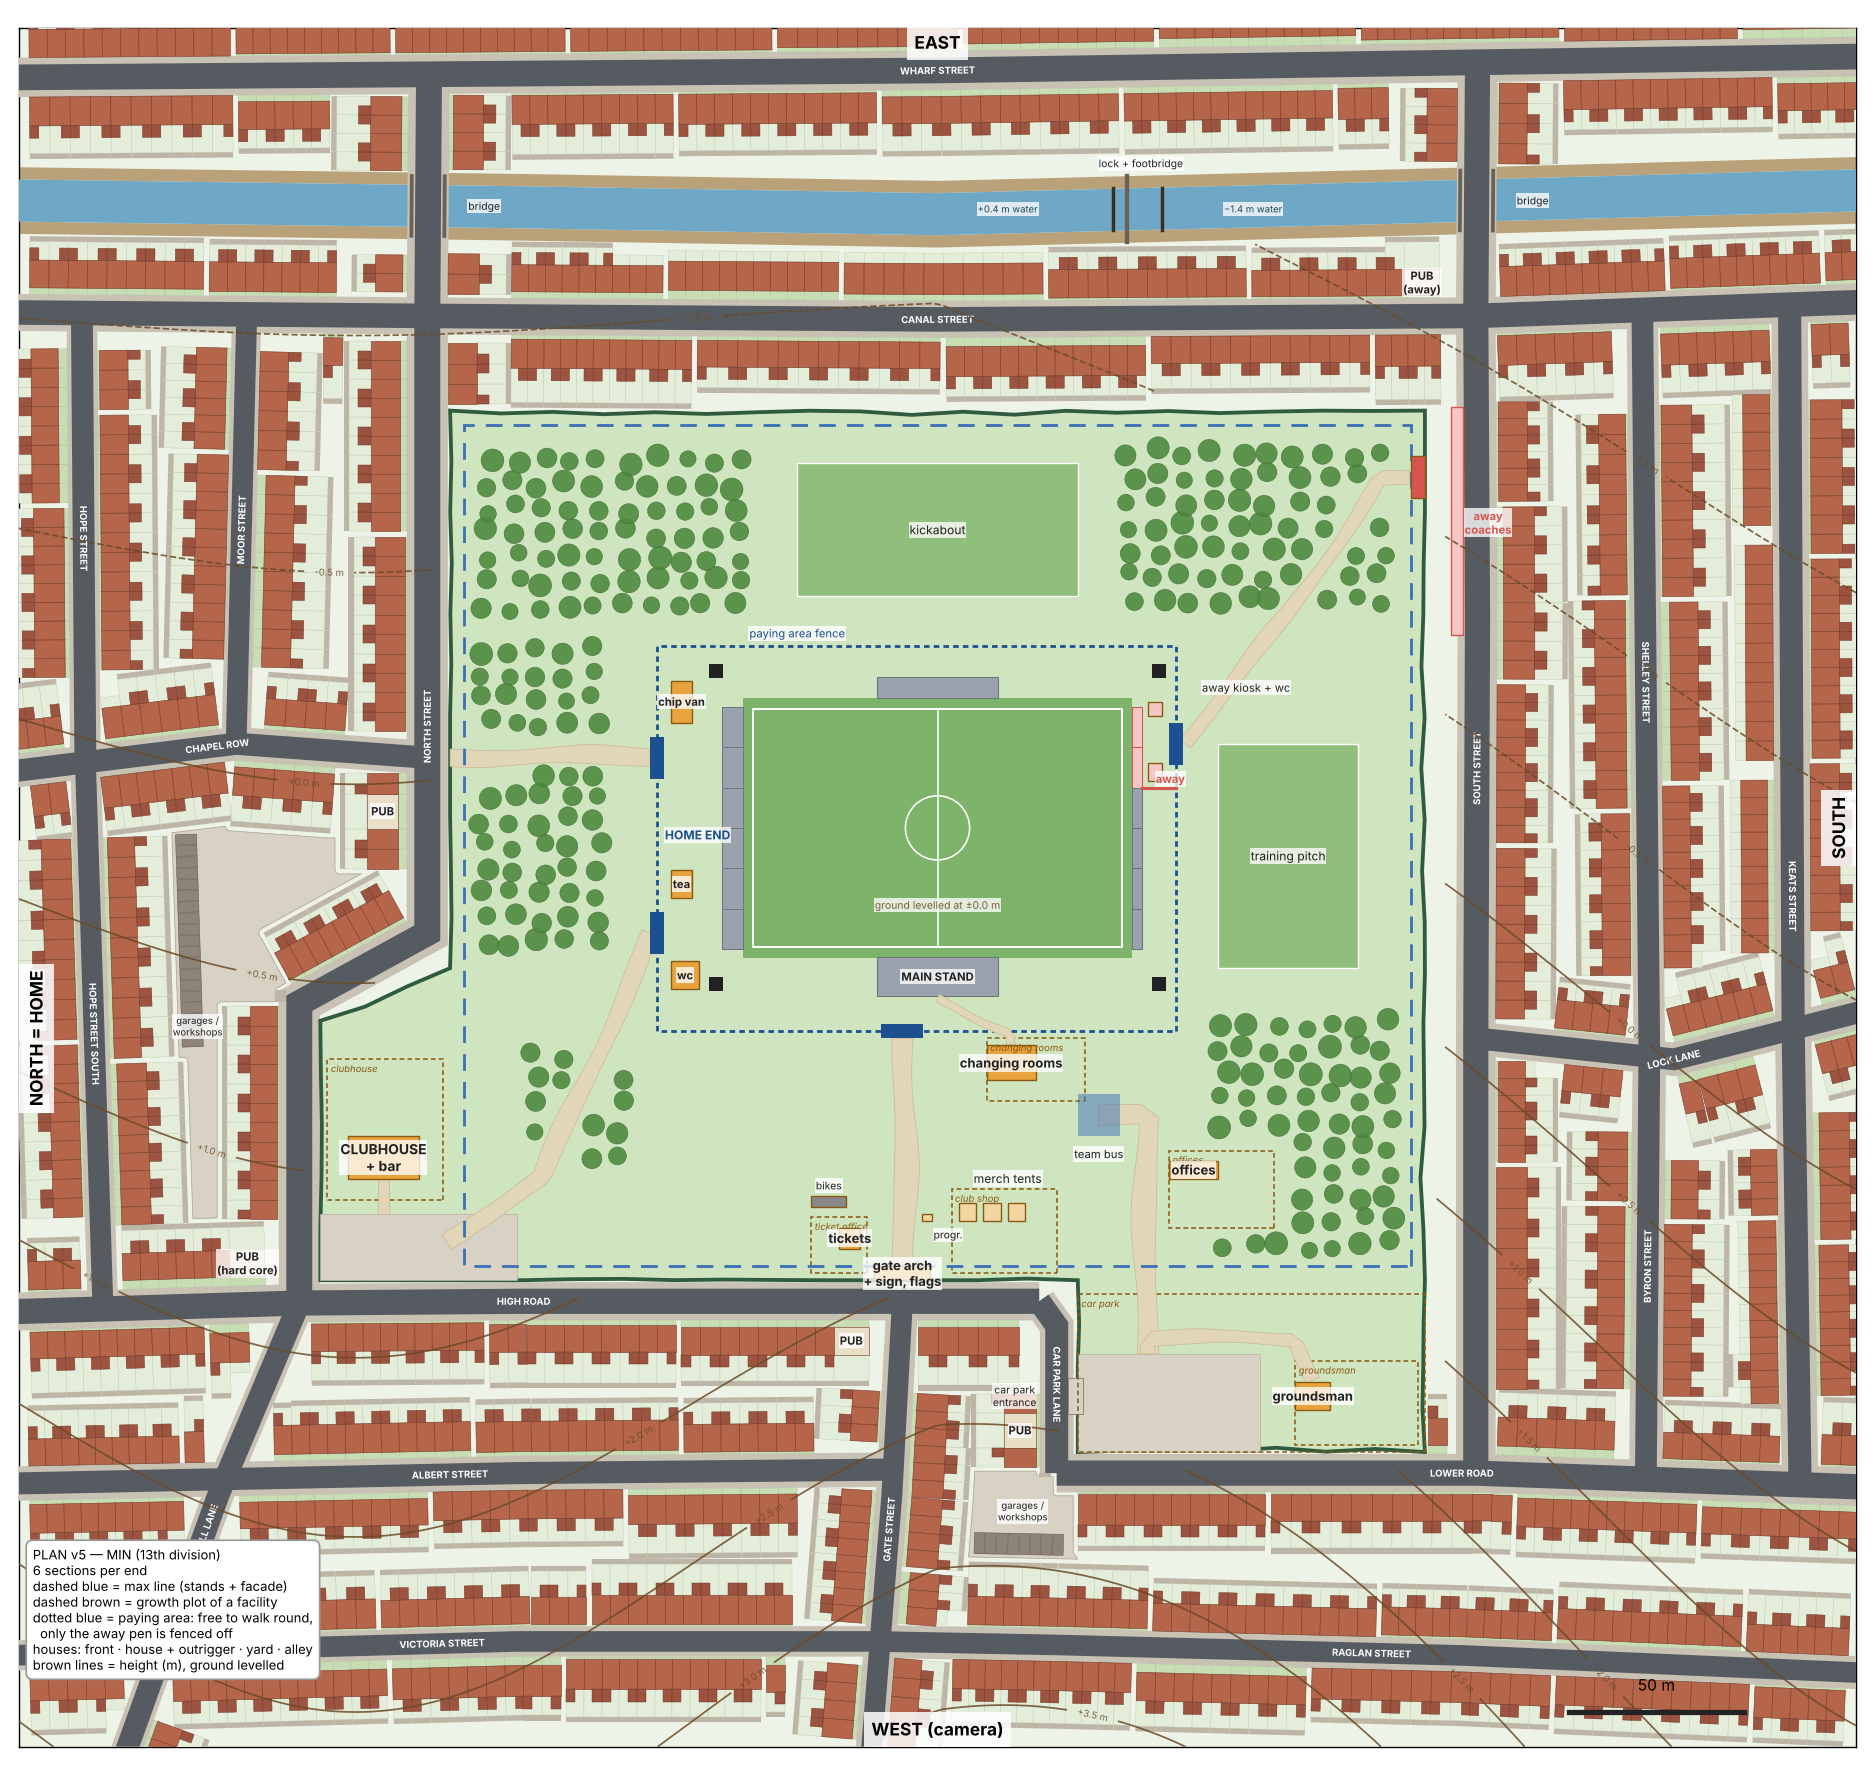
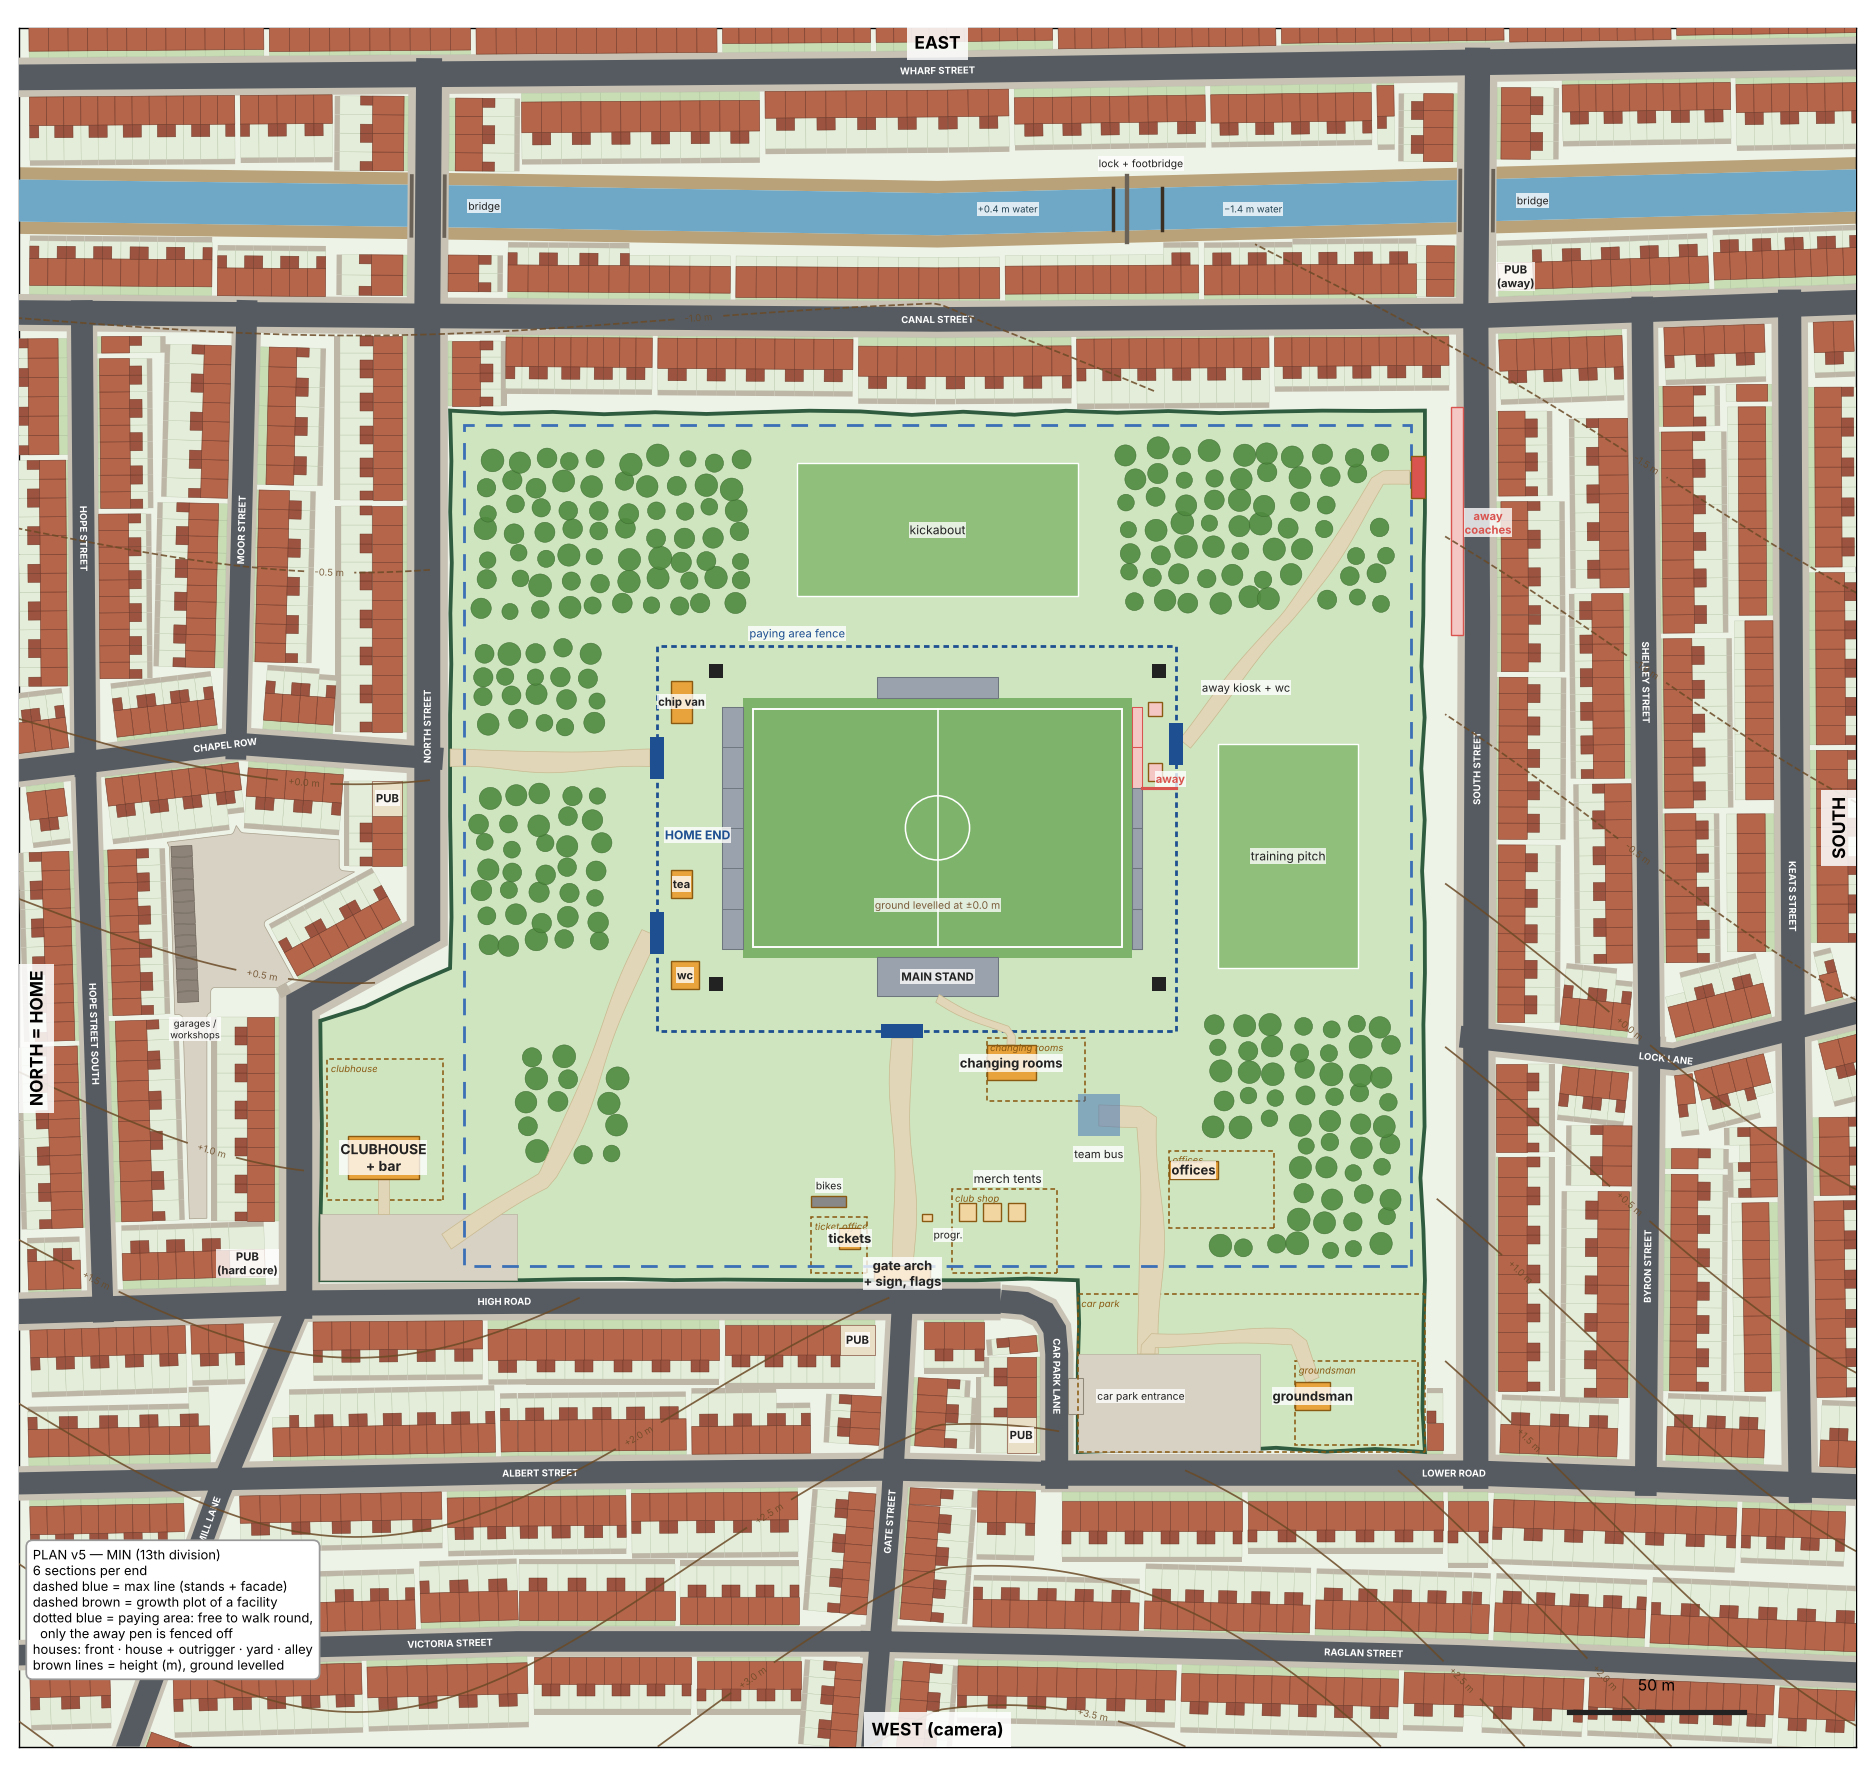
World plan v5: smooth Car Park Lane join, Albert Street on to Lower Road, run-on T-junctions, full-width house collision
Claude-Session: https://claude.ai/code/session_014ycydqV6UcPmXsxcMbevVi

diff --git a/tools/plan/world_plan_v5.py b/tools/plan/world_plan_v5.py
@@ -78,11 +78,11 @@ assert PLOT.buffer(0.01).contains(MAXL), "max line must fit inside the plot"
 
 # ---------------------------------------------------------------- streets (centrelines)
 STREETS = {
-    "High Road": [(-265, -138), (-182, -135.5), (-120, -135), (-10, -135), (29, -135)],
-    "Car Park Lane": [(29, -135), (34, -142), (34, -184)],
+    "High Road": [(-265, -138), (-182, -135.5), (-120, -135), (-10, -135), (18, -135)],
+    "Car Park Lane": [(18, -135), (25, -135.6), (30.5, -138.2), (33.4, -143), (34, -150), (34, -184)],
     "Lower Road": [(34, -184), (153.5, -184), (265, -188)],
     "Gate Street": [(-10, -135), (-13, -190), (-19, -265)],
-    "Albert Street": [(-265, -187), (-120, -184), (-13, -183)],
+    "Albert Street": [(-265, -187), (-120, -184), (-13, -183), (34, -184)],
     "Victoria Street": [(-265, -236), (-120, -232), (-17.5, -232)],
     "Raglan Street": [(-17.5, -232), (34, -233), (150, -236), (265, -241)],
     "Mill Lane": [(-182, -135.5), (-205, -190), (-232, -265)],
@@ -99,7 +99,32 @@ STREETS = {
     "Keats Street": [(246, -188), (244, -57), (243, 149)],
     "Wharf Street": [(-265, 214), (0, 216), (265, 220)],
 }
-roads = {k: LineString(v) for k, v in STREETS.items()}
+def _run_on(streets, d=4.5):
+    lines = {k: LineString(v) for k, v in streets.items()}
+    out = {}
+    for k, pts in streets.items():
+        pts = list(pts)
+        for end in (0, -1):
+            p = Point(pts[end])
+            if any(o.distance(p) < 1.0 for kk, o in lines.items() if kk != k):
+                q = pts[1] if end == 0 else pts[-2]
+                dx, dy = pts[end][0] - q[0], pts[end][1] - q[1]
+                L = math.hypot(dx, dy) or 1
+                # only straight-on T-ends: a street that continues another one (same direction) is joined smoothly instead
+                ext = (pts[end][0] + dx / L * d, pts[end][1] + dy / L * d)
+                if end == 0:
+                    pts.insert(0, ext)
+                else:
+                    pts.append(ext)
+        out[k] = pts
+    return out
+
+
+SMOOTH_JOINS = {("High Road", "Car Park Lane")}
+_ext = _run_on({k: v for k, v in STREETS.items() if k not in ("Car Park Lane",)})
+_ext["Car Park Lane"] = STREETS["Car Park Lane"][:-1] + [(34, -184), (34, -188.5)]
+_ext["High Road"] = [p for p in _ext["High Road"] if p[0] <= 18.01]       # High Road flows into Car Park Lane: no run-on there
+roads = {k: LineString(_ext[k]) for k in STREETS}
 # natural: every street its own width (main roads wider, back streets narrower), pavements vary too
 MAIN = {"High Road", "Canal Street", "South Street", "North Street", "Lower Road", "Wharf Street"}
 _rw = random.Random(11)
@@ -186,7 +211,7 @@ for name, line in roads.items():
                     width, pub = 10.0, tag
                     break
             for depth in (FG + HD + yd_run + AL, FG + HD + 5.0 + AL, FG + HD + 3.0):
-                cand = frame_poly(o, t, n, 0.2, width - 0.2, 0.25, depth)
+                cand = frame_poly(o, t, n, 0.0, width, 0.25, depth)
                 if cand.intersects(blocked) or occ.hits(cand.buffer(-0.35)) or not VIEW.buffer(30).contains(cand):
                     continue
                 break
@@ -681,7 +706,7 @@ def draw(stage, G):
     draw_poly(ax, COACH_BAY, "#F4C7C5", ec=C["away"], lw=0.8, z=8)
     for dv in G["drives"]:
         draw_poly(ax, dv, C["hard"], ec="#8f8778", lw=0.6, z=10)
-    label(ax, 22, -162, "car park\nentrance", fs=6, w="normal")
+    label(ax, 58, -162, "car park entrance", fs=6, w="normal")
     # contours: the land falls gently towards the canal (the lock steps it down); the ground is levelled
     import numpy as np
     xs = np.linspace(VIEW.bounds[0], VIEW.bounds[2], 220)

diff --git a/GDD.md b/GDD.md
@@ -209,6 +209,7 @@ By the time you reach it, you're a big club with a real stadium and a real fanba
 - **Plan v4 feedback (Marcel):** a row of houses at the back of Shelley Street; the crooked houses at a bend are fine ("vrij normaal"). Claude's must-fixes: the car park entrance (forgotten after v3) and a coach bay that was 2.2 m wide (needs ~3.5 m). Marcel's compromise: **move South Street + Shelley Street a few metres out** (bay fits on the ground side of the pavement, fence untouched; Canal Street one house longer, Lock Lane one shorter, houses where the garages were → Keats Street runs on to Canal Street).
 - **Natural (Marcel):** "not always flat, not always rectangular, not always perfectly round; a path isn't always exactly x m wide". Applied in plan v5: carriageways 7.0–7.4 m (main) / 5.8–6.6 m (back streets), pavements 1.2–2.2 m per street; per terrace a width of 4.6–5.8 m, front garden 0–2.5 m, house 7.5–9 m deep, yard 5–10 m; paths bend gently and swell/narrow (ends stay where they connect); the fence has small inward kinks (straight at the gates). **Height:** the land falls gently towards the canal (~+3.5 m in the West to −1.2 m at the canal), the lock steps the water down (+0.4 → −1.4 m), the ground is levelled at ±0.
 - **Plan v5** (`tools/plan/world_plan_v5.py [--five]` → `plan_v5_min.png`, `plan_v5_max.png`): the above + car park entrance (dropped kerb + gate from Car Park Lane, in the self-check) + coach bay 3.5 m on South Street's ground side.
+- **Plan v5 finish (Marcel: "dan zijn we er denk ik"):** Car Park Lane now bends smoothly out of High Road; Albert Street runs on to the Car Park Lane / Lower Road crossing (the vague workshop corner became two rows of houses); every T-junction's side street runs half a street width into the street it meets (no bitten-out corners); house collision uses the full plot width.
 - **Away end (Marcel, 2026-11-09): fixed on the South stand, its East end** ("like the Kooi stadium"). The player picks the size: 1 or 2 of the 5 South sections (section 23, then 24), those plus the South-East corner, or only the corner. → **One away entrance, baked in at the South-East.** (Alternatives that were on the table: an away gate per side; one gate + a segregated corridor round the ground.)
 
 ### Promotion requirements
